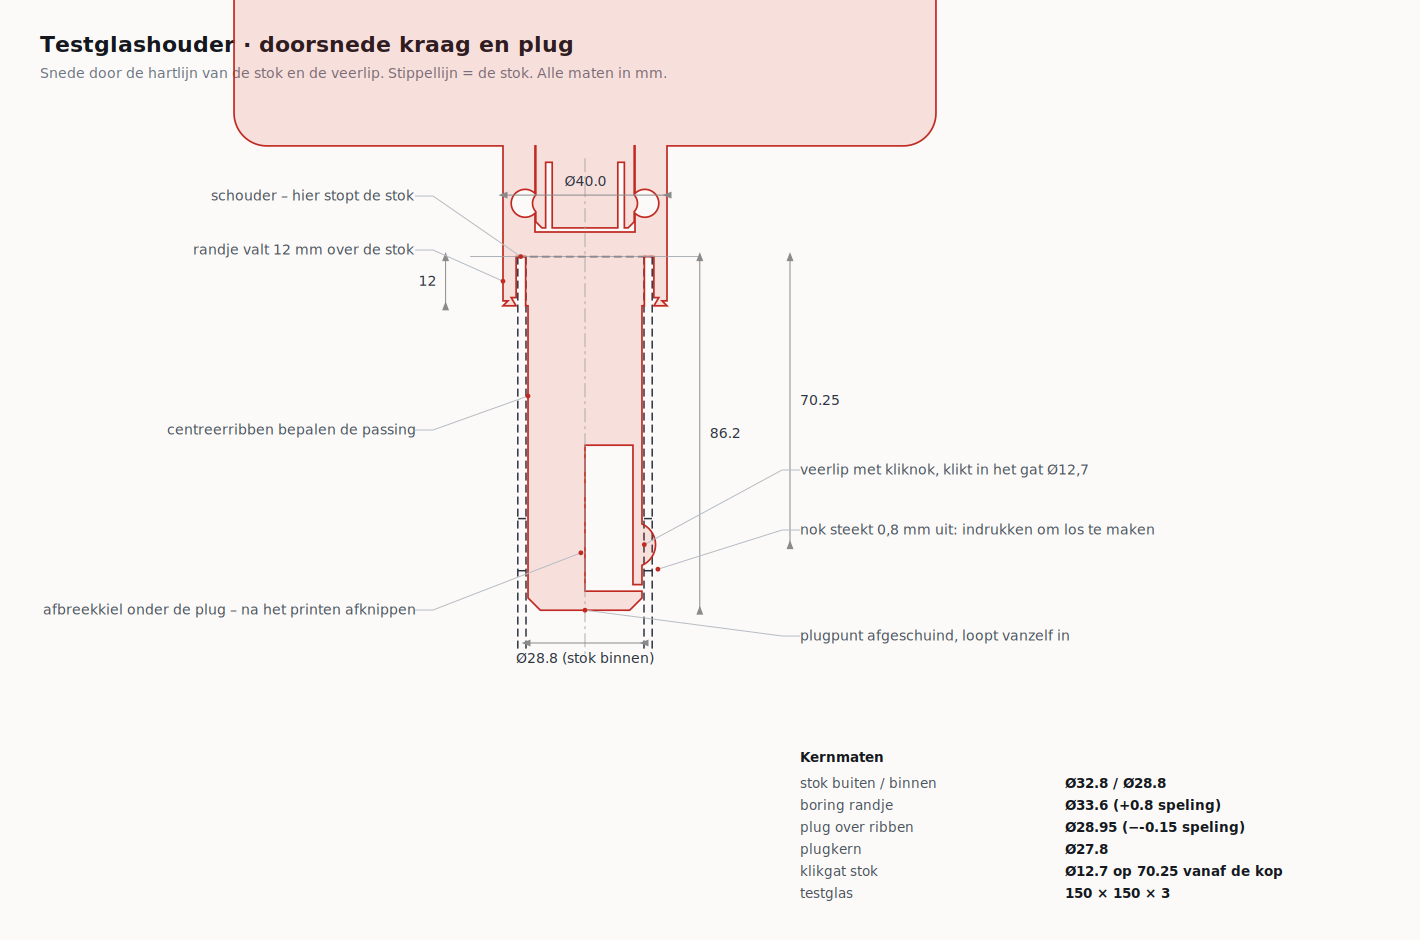
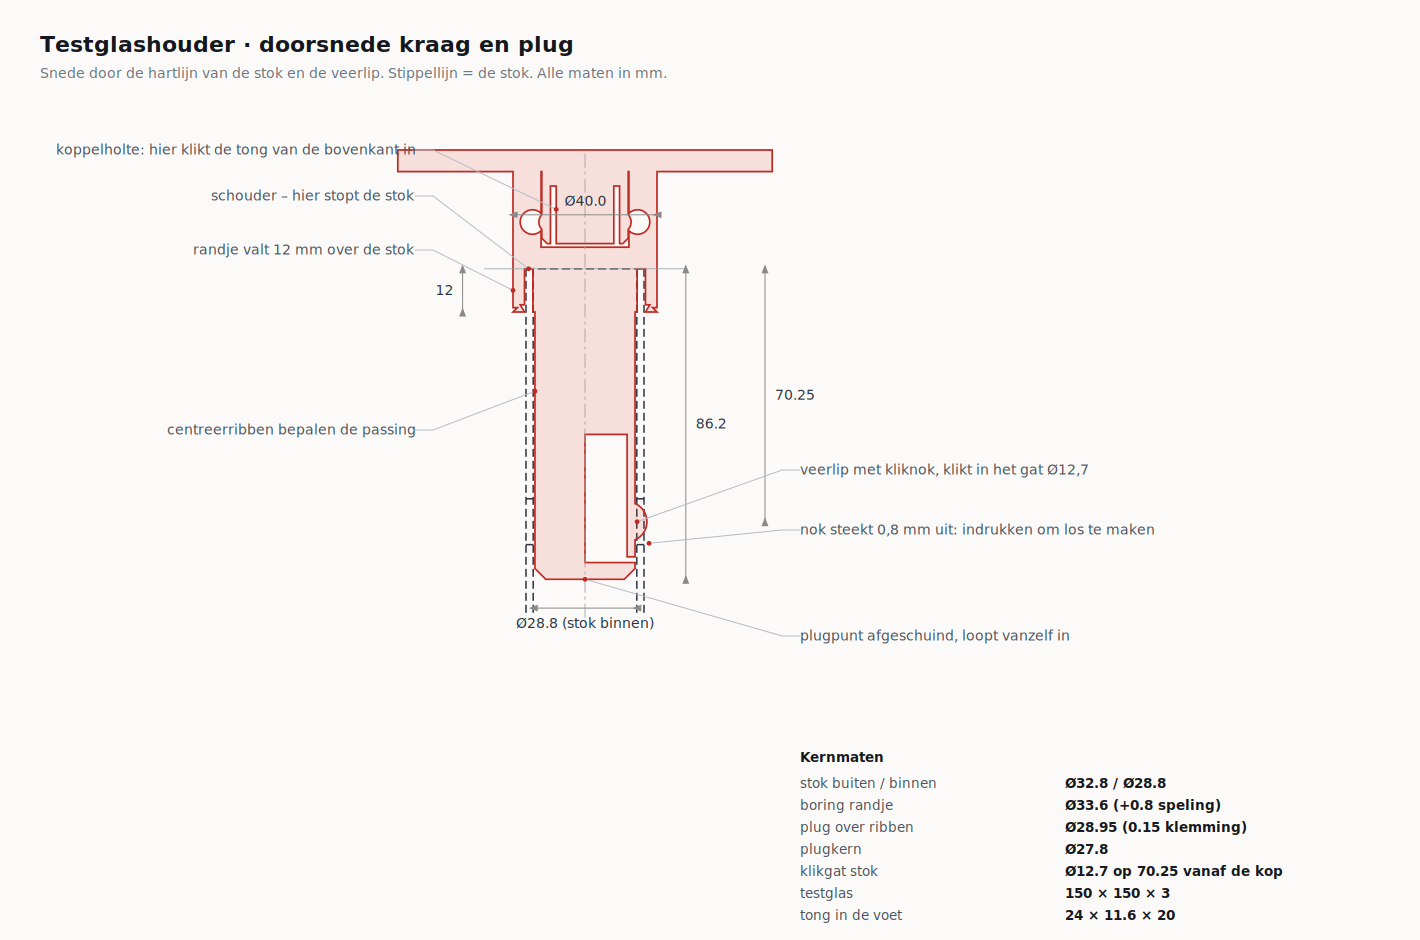
Werk de maatschets bij naar het ontwerp in twee delen
Het bijschrift over de afbreekkiel verwees naar een onderdeel dat niet meer
bestaat en is vervangen door een aanwijzing naar de koppelholte. De legenda
toont nu klemming in plaats van speling wanneer FIT_RIB negatief is, en de
maten van de tong staan erbij.

De snede wordt bijgesneden rond de koppeling en de plug, zodat de lijst niet
meer over de titel heen loopt.

Claude-Session: https://claude.ai/code/session_01EBrGsfbxHa9aAapZh2FRbC

diff --git a/3d-ontwerp/maatschets.py b/3d-ontwerp/maatschets.py
@@ -13,8 +13,8 @@ import testglashouder as T
 
 W, H = 1420.0, 940.0
 CX = 585.0                     # hartlijn van de stok op het doek
-SCALE = 4.1                    # px per mm
-TOP_Y = T.SHOULDER_Y + 26.0    # bovenrand van de tekening (in model-mm)
+SCALE = 3.6                    # px per mm
+TOP_Y = T.JOINT_Y + 6.0        # bovenrand van de tekening (in model-mm)
 TOP_PX = 150.0
 
 LEFT_TEXT = 415.0
@@ -72,7 +72,11 @@ def dim_h(y: float, xa: float, xb: float, text: str, dy: float) -> str:
 
 
 def main() -> None:
-    section = T.build_holder().slice(T.AXIS_Z)
+    # Alleen het gebied rond de koppeling en de plug tekenen; de lijst zelf
+    # valt buiten beeld.
+    window = T.box(-52.0, 52.0, T.SHOULDER_Y - T.PLUG_LEN - 14.0, TOP_Y,
+                   -60.0, 60.0)
+    section = (T.build_holder() ^ window).slice(T.AXIS_Z)
 
     top = T.SHOULDER_Y                       # schouder = kop van de stok
     tip = top - T.PLUG_LEN                   # punt van de plug
@@ -114,7 +118,7 @@ def main() -> None:
 
     # --- het onderdeel ---
     p.append(f'<path class="part" d="{path_of(section)}"/>')
-    p.append(seg(0, TOP_Y - 2, 0, bot - 2, "ctr"))
+    p.append(seg(0, TOP_Y - 1, 0, bot - 2, "ctr"))
     p.append(seg(-T.SKIRT_OD / 2 - 8, top, T.SKIRT_OD / 2 + 8, top))
 
     # --- maten ---
@@ -134,8 +138,8 @@ def main() -> None:
                     -T.RIB_R_OUT - 1.2, top, 196.0, "left"))
     p.append(leader("centreerribben bepalen de passing",
                     -T.PLUG_R, top - 34.0, 430.0, "left"))
-    p.append(leader("afbreekkiel onder de plug &#8211; na het printen afknippen",
-                    -1.0, tip + 14.0, 610.0, "left"))
+    p.append(leader("koppelholte: hier klikt de tong van de bovenkant in",
+                    -8.0, T.JOINT_Y - T.SOCKET_DEPTH / 2, 150.0, "left"))
     p.append(leader("veerlip met kliknok, klikt in het gat &#216;12,7",
                     T.RIB_R_OUT, hole, 470.0, "right"))
     p.append(leader("nok steekt 0,8 mm uit: indrukken om los te maken", T.RIB_R_OUT + 3.3, hole - 6.0,
@@ -147,10 +151,13 @@ def main() -> None:
     rows = [
         ("stok buiten / binnen", f"&#216;{T.POLE_OD} / &#216;{T.POLE_ID}"),
         ("boring randje", f"&#216;{T.SKIRT_ID:.1f} (+{T.FIT_SKIRT} speling)"),
-        ("plug over ribben", f"&#216;{2*T.RIB_R_OUT:.2f} (&#8722;{T.FIT_RIB} speling)"),
+        ("plug over ribben", f"&#216;{2*T.RIB_R_OUT:.2f} "
+         + (f"({abs(T.FIT_RIB)} klemming)" if T.FIT_RIB < 0
+            else f"({T.FIT_RIB} speling)")),
         ("plugkern", f"&#216;{2*T.PLUG_R:.1f}"),
         ("klikgat stok", f"&#216;{T.HOLE_D} op {T.SNAP_CENTER:.2f} vanaf de kop"),
         ("testglas", f"{T.GLASS_W:.0f} &#215; {T.GLASS_H:.0f} &#215; {T.GLASS_T:.0f}"),
+        ("tong in de voet", f"{T.TONGUE_W:.0f} &#215; {T.FRAME_T:.1f} &#215; {T.TONGUE_LEN:.0f}"),
     ]
     y = 762.0
     p.append(f'<text class="keyb" x="800" y="{y:.0f}">Kernmaten</text>')
